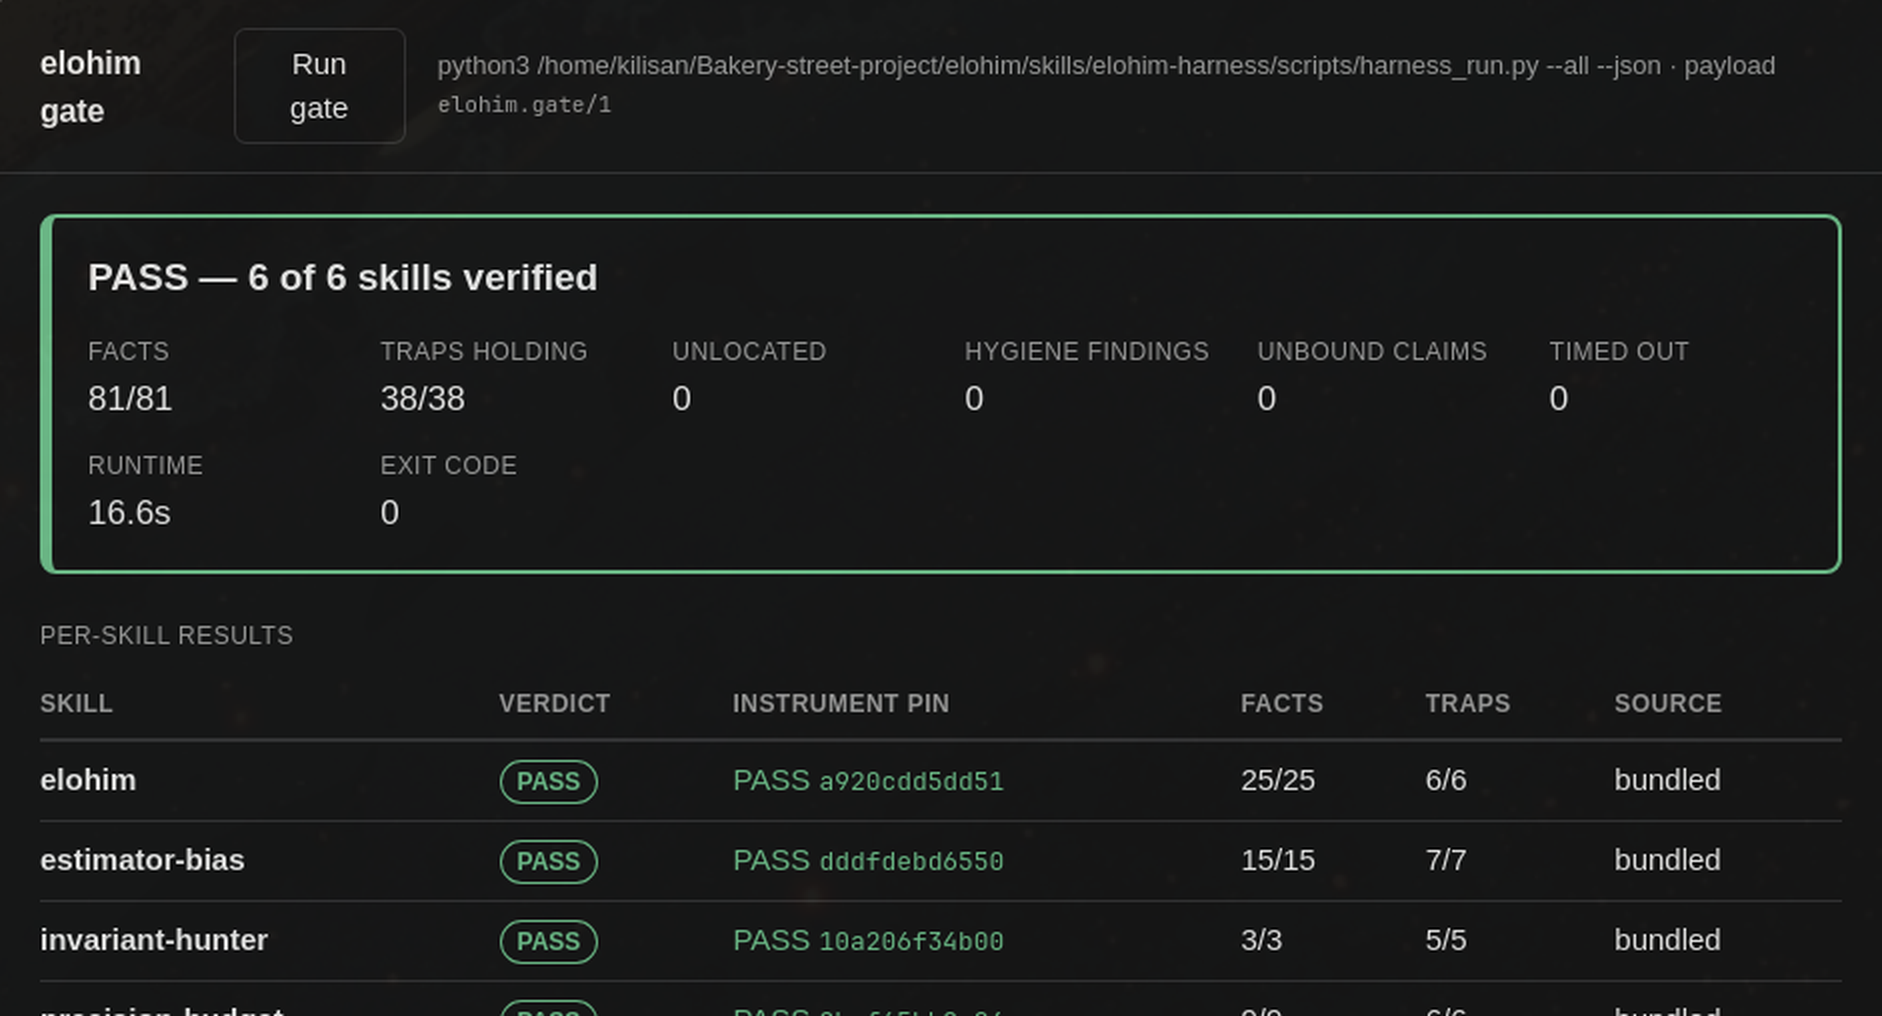
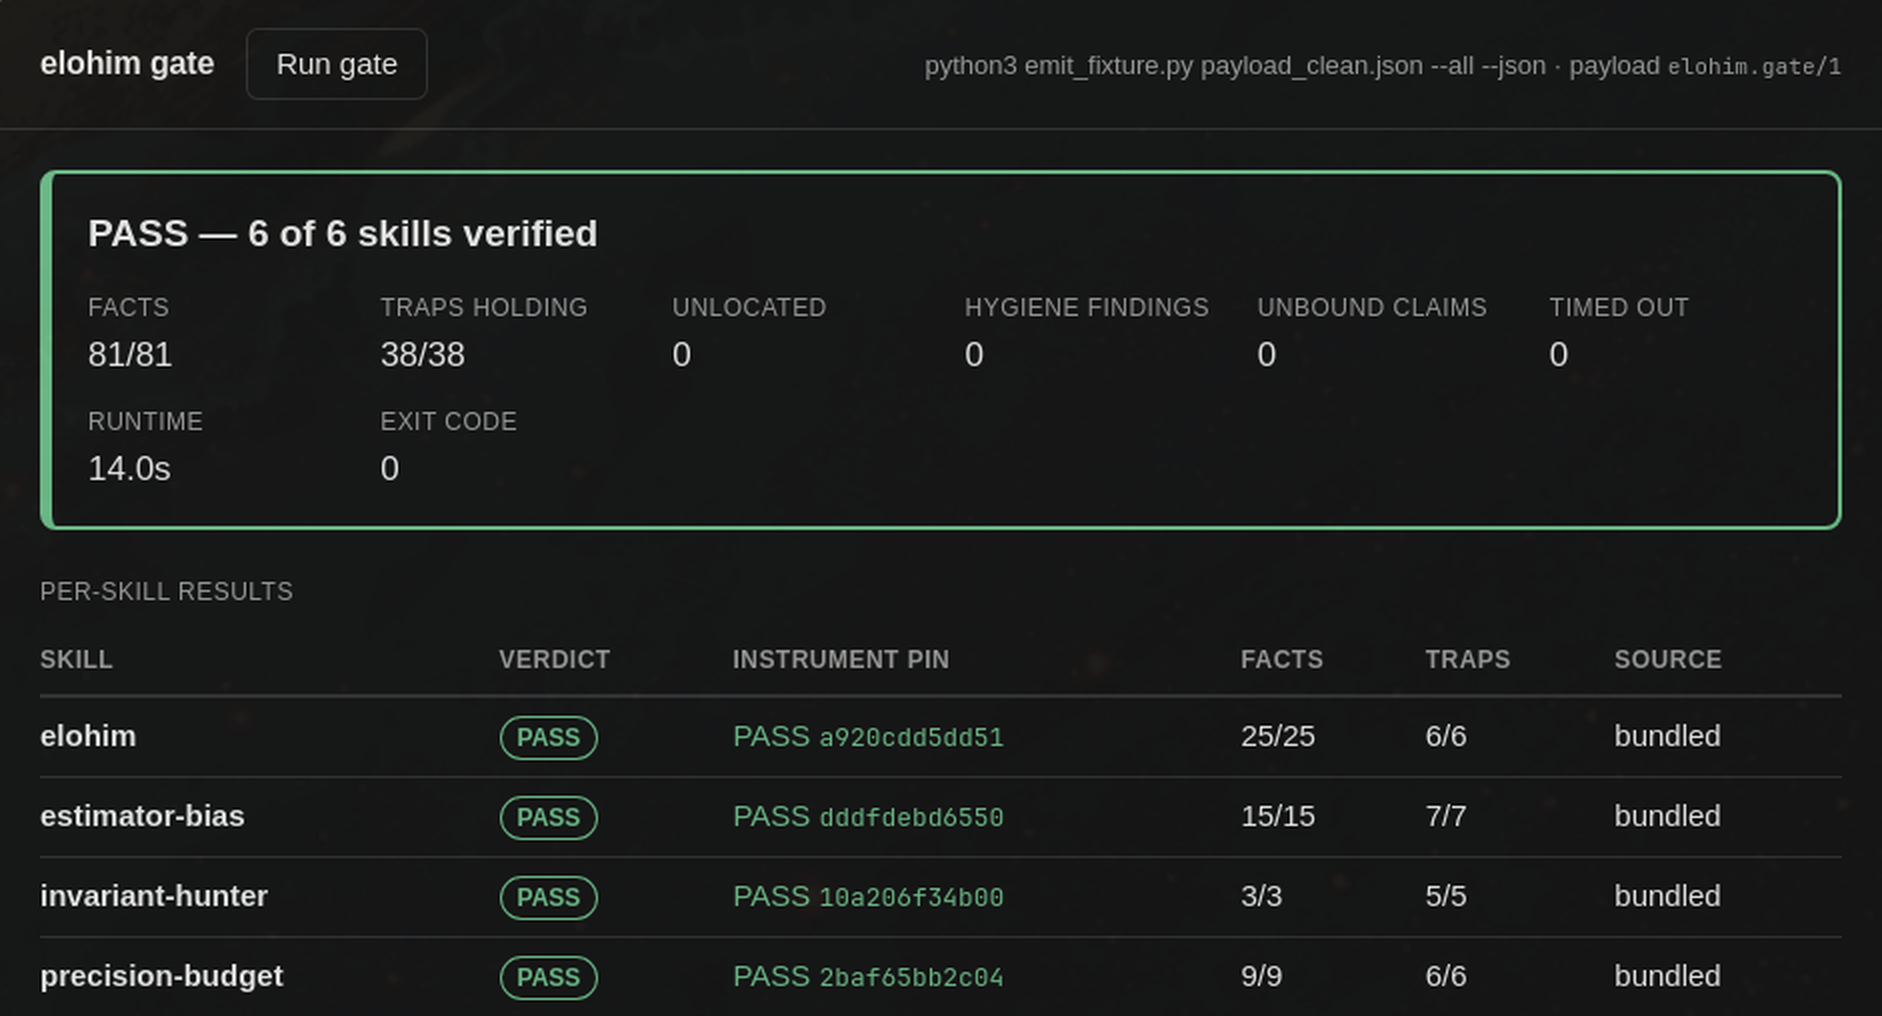
Show the command that ran, not the machine it ran on
shots/window-pass.png carried /home/<user>/... into a published screenshot. The
provenance line printed summary.command verbatim, and the README argued that was
deliberate: a verdict with no idea which checkout produced it is the failure this
app exists to make visible. That argument was wrong about which half matters, and
the screenshot settled it -- text around a PNG cannot un-publish the PNG.

reduceCommand() reduces any rooted token to its basename, so the header reads
`harness_run.py --all --json` and stays true to what a reader needs: which
command, not whose laptop. The limitation is real and stated in the docstring --
splitting is on whitespace, so a path containing a space is cut in half, which is
accepted because a truncated path beats publishing a home directory.

The two shots are re-taken rather than patched, because they are the evidence and
the evidence had to be re-earned. That needed a gate input that works: gate.rs
appends `--all --json` to whatever ELOHIM_GATE_CMD names, so `cat payload.json`
exits 1 having printed nothing and the window renders "unavailable". The shots had
therefore never been reproducible -- window-pass.png required the gate to pass on
capture day, and it does not pass today. tools/emit_fixture.py prints a checked-in
fixture, tolerates those flags, validates the schema before printing, and mirrors
harness_run.py on the exit code (a payload with a failing skill exits 1), so the
FAIL shot shows exit 1 as it always claimed to.
[…]

diff --git a/src/render.ts b/src/render.ts
@@ -160,8 +160,30 @@ export function renderSummary(summary: GateSummary): string {
   );
 }
 
+/**
+ * The command with every rooted path reduced to its file name.
+ *
+ * The header used to print `command` verbatim, which put the author's home
+ * directory into every screenshot of this window and therefore into the public
+ * repository. The flags are the part worth reading, and they survive intact.
+ *
+ * Splitting is on whitespace, so a path containing a space would be cut in
+ * half. The gate's own path has none, and a truncated path is still a better
+ * outcome than publishing someone's home directory.
+ */
+export function reduceCommand(command: string): string {
+  return command
+    .split(/\s+/)
+    .filter((token) => token.length > 0)
+    .map((token) =>
+      token.startsWith("/") ? token.slice(token.lastIndexOf("/") + 1) : token
+    )
+    .join(" ");
+}
+
 export function renderProvenance(summary: GateSummary): string {
-  return `${esc(summary.command)} &middot; payload <code>${esc(summary.schema)}</code>`;
+  const command = reduceCommand(summary.command);
+  return `${esc(command)} &middot; payload <code>${esc(summary.schema)}</code>`;
 }
 
 /**

diff --git a/tools/emit_fixture.py b/tools/emit_fixture.py
@@ -1,0 +1,85 @@
+#!/usr/bin/env python3
+"""Print a gate payload fixture on stdout, so the desktop app can be shown one.
+
+Why this exists instead of `cat`:
+
+The app appends `--all --json` to whatever ELOHIM_GATE_CMD names, because the real
+gate is a harness that takes those flags. Measured: `cat payload_fail.json --all
+--json` exits 1 and prints nothing, so the window reports "cat exited 1 without
+printing a payload" and renders the unavailable card rather than the fixture. A
+program that does not understand the flags cannot be used as an override at all.
+
+That is why the window screenshots were not reproducible. They could only be
+taken against a real gate run, which meant `shots/window-pass.png` required the
+gate to pass on the day it was captured -- and it does not pass today. Reading a
+checked-in payload instead makes both shots reproducible from the committed tree,
+which is also how `shots/pass.png` and `shots/fail.png` have always been made.
+
+Usage:
+    ELOHIM_GATE_CMD="python3 tools/emit_fixture.py <fixture.json>" tools/see-window.sh out.png
+
+The flags are accepted and ignored. The payload is validated before printing, so
+a wrong path fails here with a readable message instead of surfacing later as a
+window that renders nothing -- the same failure, one step further from its cause.
+"""
+
+from __future__ import annotations
+
+import json
+import sys
+from pathlib import Path
+
+# Matches KNOWN_SCHEMAS in src-tauri/src/gate.rs. A payload outside this set is
+# rejected by the app with UnknownSchema, which is a less obvious message than
+# saying so here.
+KNOWN_SCHEMAS = ("elohim.gate/1",)
+
+
+def main(argv: list[str]) -> int:
+    positional = [arg for arg in argv if not arg.startswith("-")]
+
+    if not positional:
+        print(f"usage: {Path(sys.argv[0]).name} <payload.json>", file=sys.stderr)
+        return 2
+
+    path = Path(positional[0])
+    try:
+        payload = json.loads(path.read_text(encoding="utf-8"))
+    except OSError as error:
+        print(f"cannot read {path}: {error}", file=sys.stderr)
+        return 2
+    except json.JSONDecodeError as error:
+        print(f"{path} is not valid JSON: {error}", file=sys.stderr)
+        return 2
+
+    if not isinstance(payload, dict):
+        print(f"{path} holds a {type(payload).__name__}, not an object", file=sys.stderr)
+        return 2
+
+    schema = payload.get("schema")
+    if schema not in KNOWN_SCHEMAS:
+        print(
+            f"{path} has schema {schema!r}; expected one of {list(KNOWN_SCHEMAS)}",
+            file=sys.stderr,
+        )
+        return 2
+
+    sys.stdout.write(json.dumps(payload))
+
+    # Mirror the real harness on the exit code, so a FAIL payload exits non-zero
+    # exactly as a real failing run does. Measured on harness_run.py: the
+    # aggregate is `"PASS" if code == EXIT_OK else "FAIL"` over the per-skill
+    # verdicts, and a non-zero exit is what the window's own status line reports.
+    # Without this, `window-fail.png` would show a FAIL verdict beside "exit 0",
+    # which is a state the real gate cannot produce and would make the committed
+    # screenshot evidence for the exit code worthless.
+    failed = [
+        skill.get("skill")
+        for skill in payload.get("skills", [])
+        if isinstance(skill, dict) and skill.get("verdict") == "FAIL"
+    ]
+    return 1 if failed else 0
+
+
+if __name__ == "__main__":
+    raise SystemExit(main(sys.argv[1:]))

diff --git a/README.md b/README.md
@@ -102,10 +102,16 @@ They are read out and dropped; a test asserts that no host path reaches the
 frontend. What travels between machines is the pin's sha256, shown shortened to
 12 characters.
 
-The one host path on screen is the invocation command itself, printed as
-provenance above the table. That is deliberate and it is the exception, not an
-oversight: a verdict with no idea which checkout produced it is the failure this
-app exists to make visible. Both window screenshots show it.
+The command that produced a run is printed as provenance above the table, and it
+is the one place a path could reach the screen. It is shown as bare filenames —
+`harness_run.py --all --json`, not the checkout it came from.
+
+That is not timidity, and it reverses an earlier decision here. `window-pass.png`
+used to carry `/home/<user>/…` into a committed PNG, because this line printed
+the command verbatim and a screenshot cannot be un-published by editing the text
+around it. Knowing *which command* ran is the provenance worth having. Knowing
+whose machine it ran on is the half that leaks, and it was never the half that
+made the verdict legible.
 
 ## Evidence
 
@@ -116,18 +122,30 @@ a passing run, a failing run, and the "no gate" state. `npm run shots` rebuilds
 them, and asserts that the pass and fail renders differ in content rather than
 only in pixels.
 
-Two are the real application window, captured off a live screen:
+Two are the real application window on a real compositor, captured off a live
+screen. The gate they display is fed from the committed fixtures by
+`tools/emit_fixture.py`, not from a live gate run:
 
 | | |
 |---|---|
-| `window-pass.png` | the window against a clean checkout: `PASS — 6 of 6 skills verified`, 81/81 facts, 38/38 traps, exit 0 |
-| `window-fail.png` | the window against a deliberately corrupted tree: `FAIL — 4 of 6 skills verified, 2 failed`, 80/81 facts with `1 drifted`, exit 1 |
+| `window-pass.png` | `payload_clean.json`: `PASS — 6 of 6 skills verified`, 81/81 facts, 38/38 traps, exit 0 |
+| `window-fail.png` | `payload_fail.json`: `FAIL — 4 of 6 skills verified, 2 failed`, 80/81 facts with `1 drifted`, exit 1 |
+
+That indirection is what makes them reproducible. Taken against a live gate,
+`window-pass.png` required the gate to pass on the day it was captured, and it
+does not pass today.
 
 The window ones are committed because they are the only evidence that the
 rendered pixels are what the tests think they are. Everything below the window
 was verified by `cargo test`; a passing test suite says nothing about what a
 user sees. `tools/see-window.sh` produced them, and it does not take a picture
 unless the crop it took is provably the window — see below.
+
+One blemish is in `window-fail.png` and is not the app: the circled `H` at the top
+right is Hyprland's workspace indicator, drawn because the capture harness
+switches workspaces to follow the window. It is in no other screenshot and it
+covers no field. It is left in rather than cropped, because a crop that removes
+it also removes the pixels that prove the shot is the whole window.
 
 The failing payload was produced for real, not hand-written: one `verified` token
 in `skills/elohim/instrument/summoning_shard.py` was flipped to `drifted`, which
@@ -168,6 +186,24 @@ view, and captures it.
 ```sh
 ELOHIM_VIEWER_RUN=1 ELOHIM_GATE_CMD="python3 /path/to/harness_run.py" ./tools/see-window.sh out.png
 ```
+
+To reproduce the committed shots, point the gate at a fixture instead:
+
+```sh
+ELOHIM_VIEWER_RUN=1 \
+ELOHIM_GATE_CMD="python3 $PWD/tools/emit_fixture.py $PWD/src-tauri/tests/fixtures/payload_fail.json" \
+./tools/see-window.sh window-fail.png
+```
+
+Use absolute paths there. The app spawns the gate with its own working
+directory, so a relative path to the script is not found and the window renders
+"unavailable" instead of the fixture.
+
+`emit_fixture.py` exists because the app appends `--all --json` to whatever
+`ELOHIM_GATE_CMD` names, so `cat payload_fail.json` exits 1 having printed
+nothing and the window reports "no payload". It accepts and ignores those flags,
+validates the schema before printing, and mirrors the harness on the exit code —
+a payload with a failing skill exits 1, exactly as a real failing run does.
 
 It does not take a picture unless the crop is provably the window. A crop is
 accepted only if it contains at least 300 strongly saturated pixels — the
@@ -220,11 +256,11 @@ went with it — and the viewer shows both, in the right rows.
 
 ## Status
 
-Verified end to end, in the real window, against real gates in both directions:
+Verified end to end, in the real window, in both directions:
 
-- `window-pass.png` — clean checkout: `PASS`, 6/6 skills, 81/81 facts, 38/38
-  traps, exit 0.
-- `window-fail.png` — corrupted tree: `FAIL`, 4/6 skills, 80/81 facts with
+- `window-pass.png` — `payload_clean.json`: `PASS`, 6/6 skills, 81/81 facts,
+  38/38 traps, exit 0.
+- `window-fail.png` — `payload_fail.json`: `FAIL`, 4/6 skills, 80/81 facts with
   `1 drifted`, 37/38 traps, exit 1, both independent failures visible in their
   rows.
 - 23 Rust tests, the renderer in a real browser, and the same round trip driven
